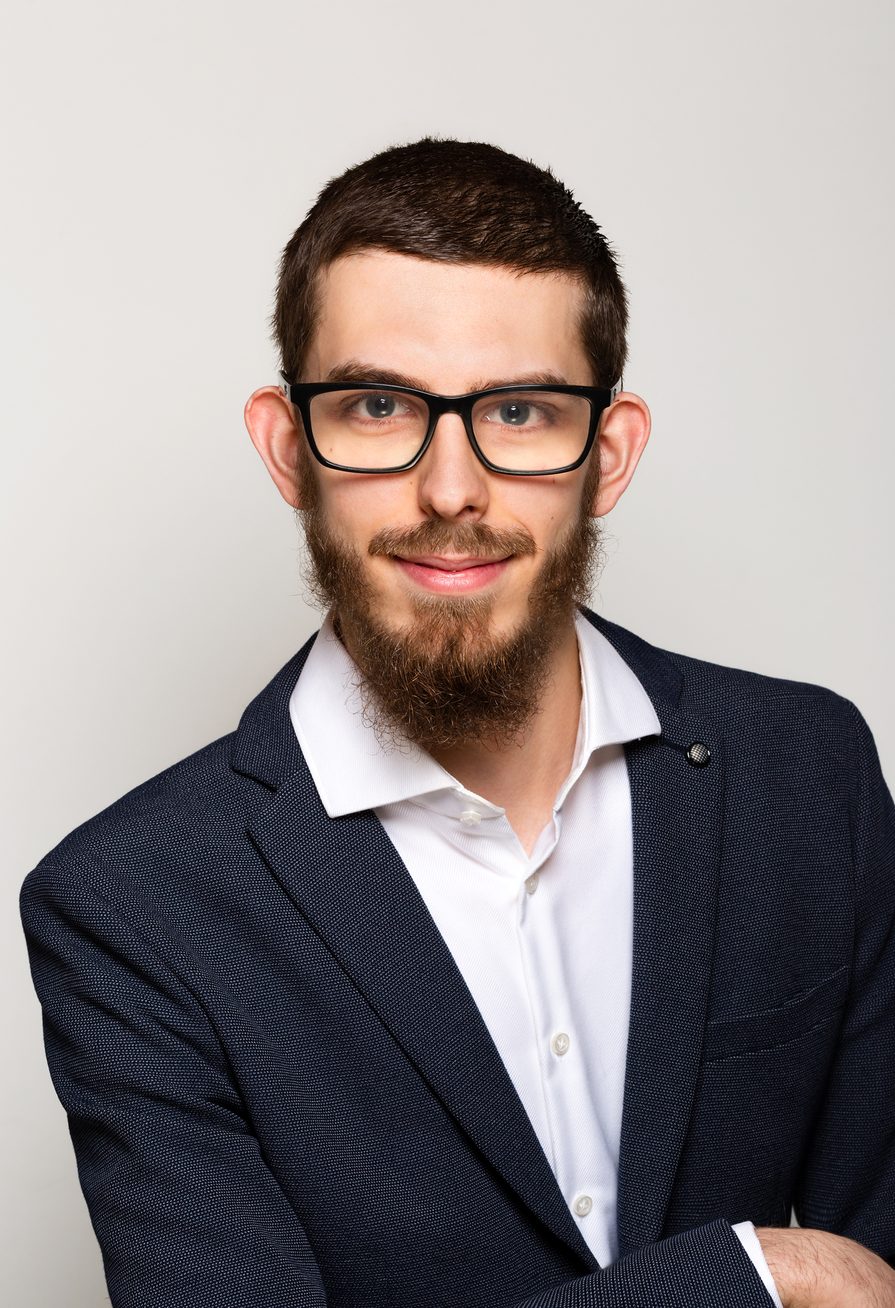
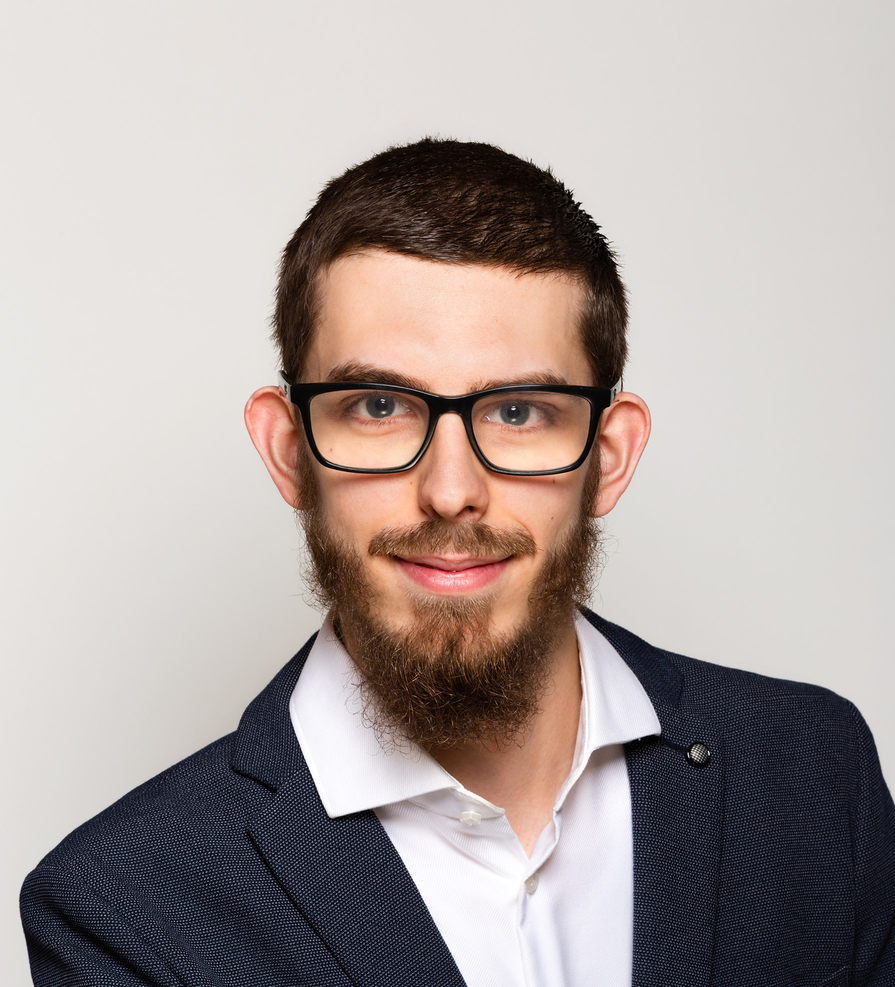
updated descriptions and profile pictures

diff --git a/index.html b/index.html
@@ -26,9 +26,6 @@
 									<a href="index.html" class="logo"><strong>E</strong>mpowering <strong>ME</strong>dical image computing & <strong>R</strong>esearch through early-career <strong>E</strong>xpertise</a>
 									<ul class="icons">
 										<li><a href="https://x.com/MiccaiStudents?s=20" class="icon brands fa-twitter"><span class="label">Twitter</span></a></li>
-									<!--
-										<li><a href="https://github.com/ContinualMedAI" class="icon brands fa-github"><span class="label">Github</span></a></li>
-									-->
 									
 									</ul>
 								</header>
@@ -45,7 +42,7 @@
 
 									</div>
 									<span class="image object">
-										<img src="images/logos/logo_daicow_horizontalss.png" alt="" />
+										<img src="images/logos/logo_EMERGE.jpg" alt="" />
 									</span>
 								</section>
 
@@ -125,11 +122,11 @@
 								</header>
 								<div class="features">
 									<article>
-										<span class="image object"><img src="images/pictures/CamilaGonzalez_scaled.png" alt="" width="150" height="150"/></span>
+										<span class="image object"><img src="images/pictures/naren_akash.png" alt="" width="150" height="150"/></span>
 										<div class="content" style="vertical-align:middle;margin-left:5px;margin-top:5px">
 											<h3>Naren Akash</h3>
 											<p>IIIT Hyderabad</p>
-											
+											<a href="https://researchweb.iiit.ac.in/~naren.akash/">Website</a>
 										</div>
 									</article>
 									<article>
@@ -137,7 +134,7 @@
 										<div class="content" style="vertical-align:middle;margin-left:5px;margin-top:5px">
 											<h3>Moritz Fuchs</h3>
 											<p>Technical University of Darmstadt</p>
-											<a href="https://scholar.google.de/citations?user=MlDSA9sAAAAJ&hl=de">Website</a>
+											<a href="https://www.informatik.tu-darmstadt.de/gris/startseite_1/team/team_details_107584.de.jsp">Website</a>
 										</div>
 									</article>
 									<article>
@@ -228,7 +225,7 @@
 									</article>
 
 									<article>
-										<span class="image object"><img src="images/pictures/Benjamin Killeen.jpeg" alt="" width="150" height="150"/></span>
+										<span class="image object"><img src="images/pictures/constantin_ulrich.jpg" alt="" width="150" height="150"/></span>
 										<div class="content" style="vertical-align:middle;margin-left:5px;margin-top:5px">
 											<h3>Constantin Ulrich</h3>
 											<p>German cancer Research Center (DKFZ)</p>
